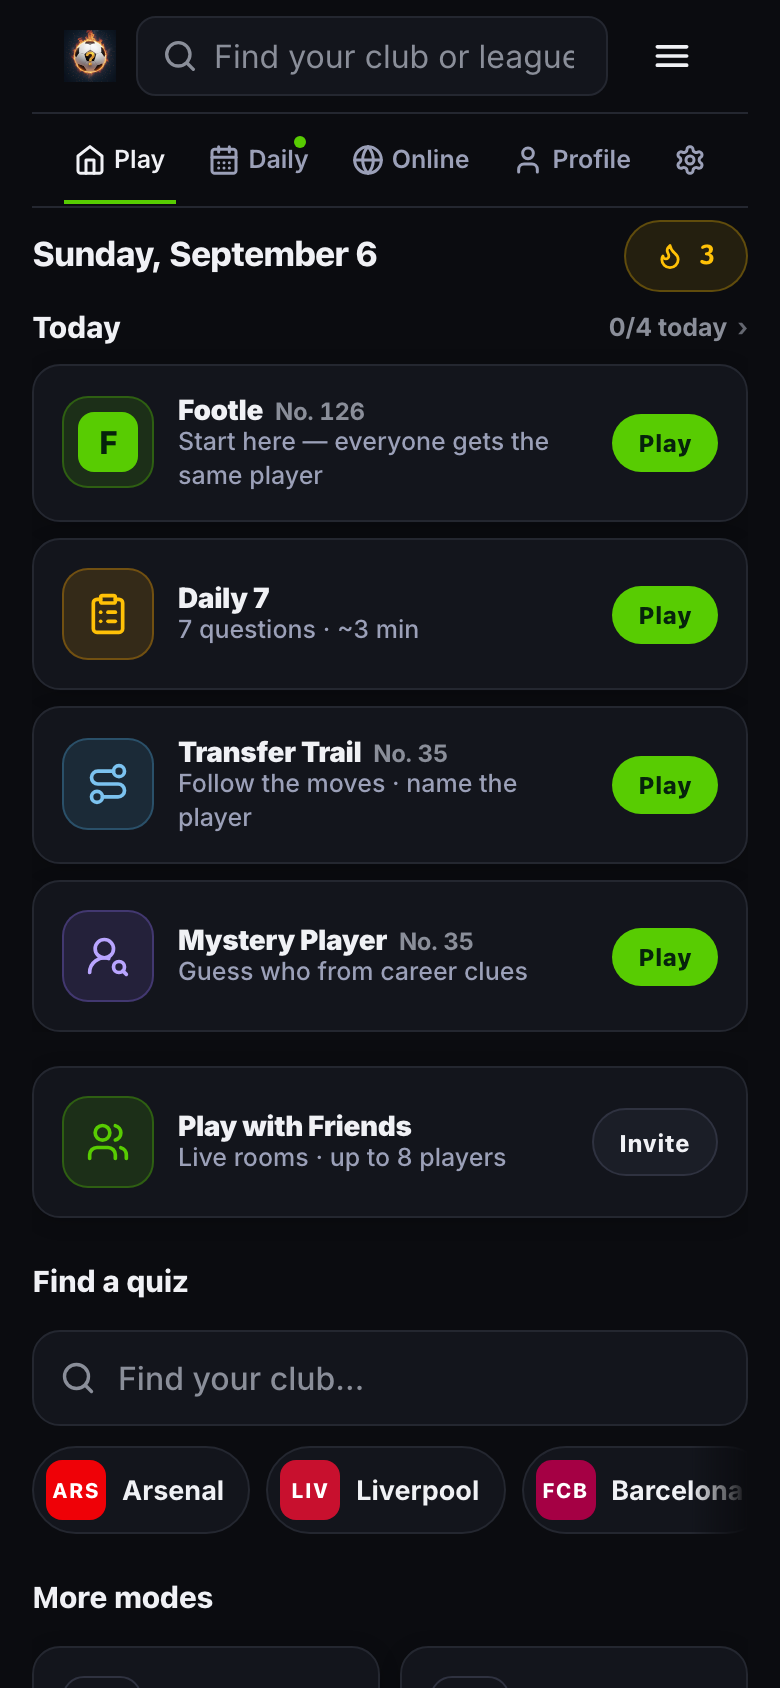
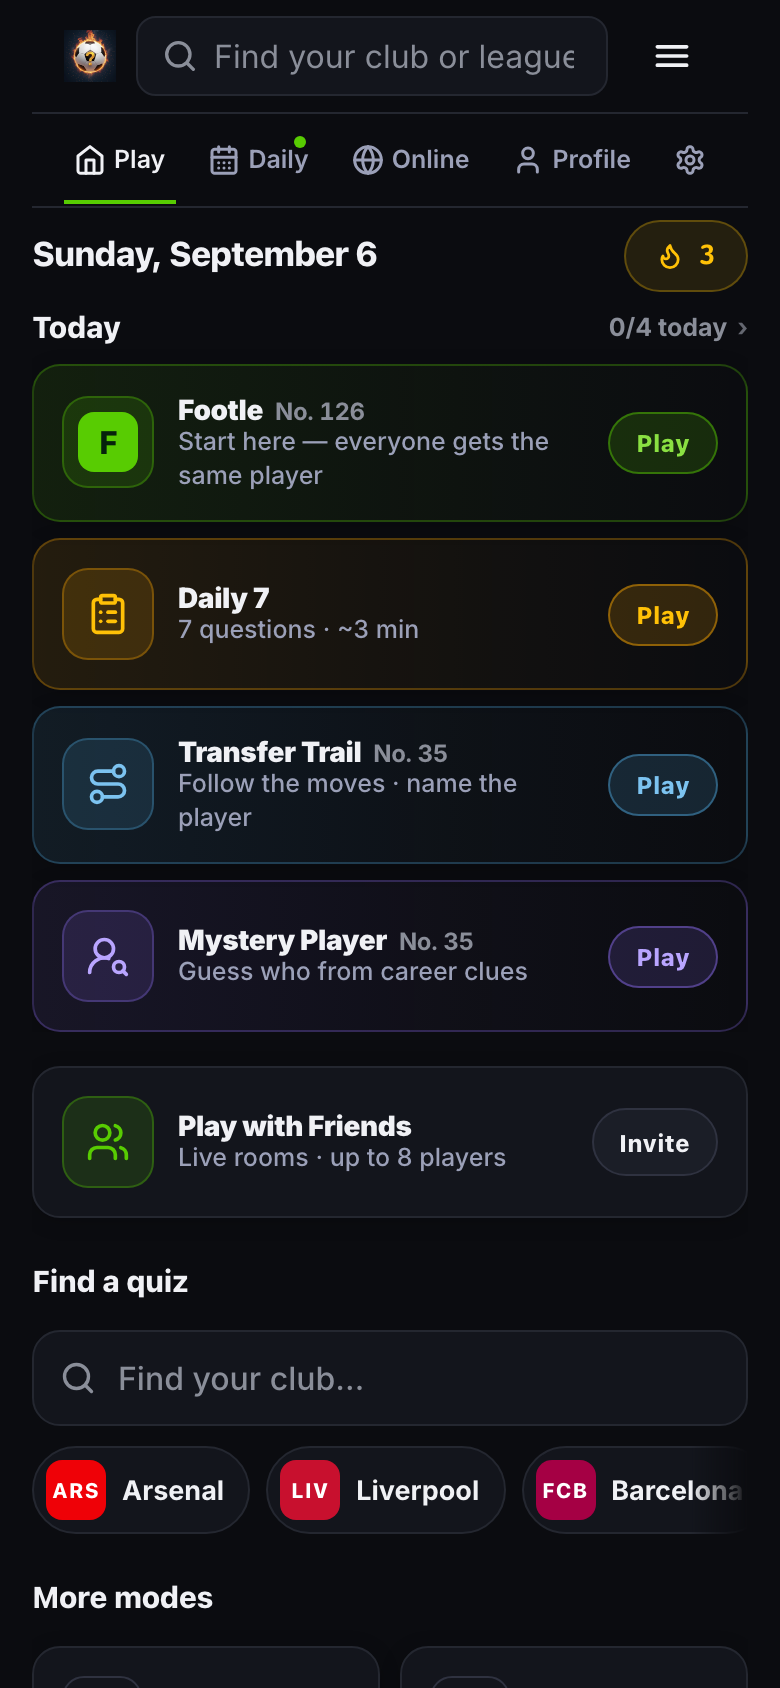
today block: the four dailies are branded tiles again (Alex)
Alex, from his phone: "should we not have that same color on the tiles on our
homepage now?" He was looking at an older build, where the Daily tab painted
the whole tile in the mode colour, and he was right that we lost something at
d712bb7 when those rows joined the shared anatomy.

Judged side by side at 390px with the real tokens (three variants, shot in
.audit/senior-review-2026-09-06/shots/40-today-rows-ab.png): the prod version
reads as four near-identical rows, and a green Play on an amber or purple tile
is a clash that pulls the eye off the identity the tile is building. One colour
story per row reads as four games rather than four list items.

The one-green-Play rule still governs every LIST in the app, and should — in a
list of similar things, four colours of Play stop the eye ranking them. The
Today block is not a list: it is four separate products, deliberately equal, so
there is nothing to rank. Scoped to .is-mode, so Play with Friends, the Review
pills and every future list row are untouched. A finished daily drops back to
the quiet surface, because it must not shout as loudly as one still waiting.

diff --git a/src/app.css b/src/app.css
@@ -2214,6 +2214,28 @@ details[open] .wr-summary::before{transform:rotate(90deg);}
    not rank the rows. Review / Invite are the quiet pill (.is-done, .mp-row). */
 .t7s-cta{display:inline-flex;align-items:center;justify-content:center;padding:7px 13px;background:var(--accent);color:var(--grn-ink);-webkit-text-fill-color:var(--grn-ink);border:0;border-radius:999px;font-size:12px;font-weight:800;flex-shrink:0;letter-spacing:0.01em;}
 .todays-seven-secondary.is-done .t7s-cta,.mp-row .t7s-cta{background:var(--s2);color:var(--t1);-webkit-text-fill-color:var(--t1);border:1px solid var(--border2);}
+/* ⭐ THE FOUR DAILIES ARE BRANDED TILES, NOT LIST ROWS (Alex, 2026-09-06:
+   "should we not have that same color on the tiles on our homepage now?").
+   He was looking at his phone's older build, where the Daily tab painted the
+   whole tile in the mode colour, and he was right that we lost something.
+
+   The rule above — one green Play, mode colour on the well — still governs
+   every LIST in the app, and it should: in a list of similar things, four
+   colours of Play stop the eye ranking them. The Today block is not a list.
+   It is four separate products, deliberately equal (there is nothing to rank),
+   each with a name, a mark and a colour of its own. Judged side by side at
+   390px, a green pill on an amber or purple tile reads as a clash and pulls
+   the eye off the identity the tile is building; one colour story per row
+   reads as four games rather than four rows.
+
+   Scoped to .is-mode so nothing else moves: Play with Friends, Review pills
+   and every future list row keep the shared anatomy. */
+.todays-seven-secondary.is-mode{background:linear-gradient(90deg, rgba(var(--mode-rgb),0.10), rgba(var(--mode-rgb),0.03) 62%, transparent);border:1px solid rgba(var(--mode-rgb),0.28);}
+.todays-seven-secondary.is-mode .t7s-cta{background:rgba(var(--mode-rgb),0.16);color:var(--mode);-webkit-text-fill-color:var(--mode);border:1px solid rgba(var(--mode-rgb),0.45);}
+/* Done stays quiet even on a coloured tile — a finished daily must not shout
+   as loudly as one still waiting to be played. */
+.todays-seven-secondary.is-mode.is-done{background:var(--s1);border:1px solid var(--border);}
+.todays-seven-secondary.is-mode.is-done .t7s-cta{background:var(--s2);color:var(--t1);-webkit-text-fill-color:var(--t1);border:1px solid var(--border2);}
 /* Play with Friends as a row (MultiplayerCard.jsx): the wrapper is a div holding
    two buttons, so the body button drops its chrome and the pill is a real
    <button>. Green in the well like the mode colours do. */

diff --git a/src/screens/HomeScreen.jsx b/src/screens/HomeScreen.jsx
@@ -449,7 +449,7 @@ function HomeScreenImpl({
               return rows.map((r) => (
                 <button
                   key={r.key}
-                  className={`todays-seven-secondary ${r.key}-row${r.done ? " is-done" : ""}`}
+                  className={`todays-seven-secondary is-mode ${r.key}-row${r.done ? " is-done" : ""}`}
                   style={{ "--mode": r.accent, "--mode-rgb": r.rgb }}
                   onClick={r.onTap}
                   aria-label={r.aria}
